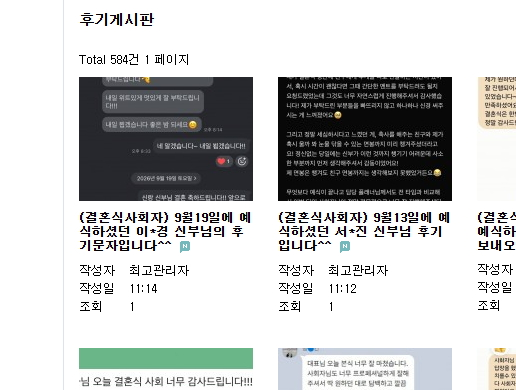
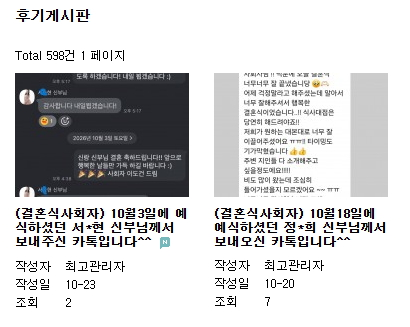
feat: 후기 개수 단일 소스화 + 최신 수치 반영 (숨고890/후기게시판598/스마트스토어550/블로그1,011/고객작성760/카페300 = 4,109건)

diff --git a/client/src/components/sections/ReviewSection.tsx b/client/src/components/sections/ReviewSection.tsx
@@ -6,6 +6,13 @@
 import { useScrollAnimation } from "@/hooks/useScrollAnimation";
 import { ExternalLink, ChevronLeft, ChevronRight, MessageSquare } from "lucide-react";
 import { useState, useEffect, useCallback, useRef } from "react";
+import {
+  PROOF_IMAGES,
+  PROOF_AS_OF,
+  PROOF_TOTAL,
+  PROOF_TOTAL_DISPLAY,
+  PROOF_TOTAL_DISPLAY_KO,
+} from "@/data/reviewStats";
 
 const REVIEW_IMAGES = [
   { src: "/images/review1_d832f6e4.jpg", alt: "고객 후기 1" },
@@ -18,68 +25,6 @@ const REVIEW_IMAGES = [
 ];
 
 const GOLD = "#d4b896";
-
-// 후기 증빙 자료 — 위 3개: 숨고 / 후기게시판 / 스마트스토어
-// 아래 3개: 블로그(문자·카톡 후기 모음, 자사 운영 블로그) / 블로그(고객님이 직접 작성한 후기글) / 카페
-const PROOF_IMAGES = [
-  {
-    src: "/images/proof/proof-soomgo.jpg",
-    alt: "숨고 프로필 리뷰수 829건",
-    label: "출처 · 숨고",
-    source: "숨고",
-    count: 829,
-    url: "https://soomgo.com/profile/users/4719699",
-    linkLabel: "숨고 프로필에서 확인",
-  },
-  {
-    src: "/images/proof/proof-blog.jpg",
-    alt: "홈페이지 후기게시판 Total 584건",
-    label: "출처 · 후기 게시판",
-    source: "후기 게시판",
-    count: 584,
-    url: "http://musicin.godohosting.com/bbs/board.php?bo_table=forum",
-    linkLabel: "후기 게시판에서 확인",
-  },
-  {
-    src: "/images/proof/proof-smartstore.jpg",
-    alt: "네이버 스마트스토어 리뷰 414건",
-    label: "출처 · 스마트스토어",
-    source: "네이버 스마트스토어",
-    count: 414,
-    url: "https://smartstore.naver.com/inus_store/products/5466083565",
-    linkLabel: "스마트스토어에서 확인",
-  },
-  {
-    src: "/images/proof/proof-singer-blog.jpg",
-    alt: "블로그 문자·카톡 후기 모음 984건",
-    label: "출처 · 블로그 (문자·카톡 후기 모음)",
-    source: "블로그(문자·카톡)",
-    count: 984,
-    url: "https://blog.naver.com/PostList.naver?blogId=inusmusics&from=postList&categoryNo=71&parentCategoryNo=71",
-    linkLabel: "블로그 후기글에서 확인",
-  },
-  {
-    src: "/images/proof/proof-blog-personal.jpg",
-    alt: "고객님이 직접 작성한 블로그 후기글 344건",
-    label: "출처 · 블로그 (고객님 작성글)",
-    source: "블로그(고객 작성)",
-    count: 344,
-    url: "https://search.naver.com/search.naver?ssc=tab.blog.all&sm=tab_jum&query=%EC%9D%B4%EB%84%88%EC%8A%A4%EB%AE%A4%EC%A7%81",
-    linkLabel: "네이버 블로그 검색에서 확인",
-  },
-  {
-    src: "/images/proof/proof-cafe.jpg",
-    alt: "네이버 카페 고객 후기글 126건",
-    label: "출처 · 카페",
-    source: "카페",
-    count: 126,
-    url: "https://search.naver.com/search.naver?ssc=tab.cafe.all&sm=tab_jum&query=%EC%9D%B4%EB%84%88%EC%8A%A4%EB%AE%A4%EC%A7%81",
-    linkLabel: "네이버 카페 검색에서 확인",
-  },
-];
-
-const PROOF_TOTAL = PROOF_IMAGES.reduce((sum, p) => sum + p.count, 0);
-const PROOF_AS_OF = "2026.10.01";
 
 // 네이버 블로그 후기 원문 발췌 — 아이디 마스킹, 본문 일부만 노출, 원문 링크 제공
 const BLOG_REVIEWS = [
@@ -220,7 +165,7 @@ export default function ReviewSection() {
                 boxShadow: "0 0 16px rgba(212,184,150,0.25)",
               }}
             >
-              3200+ 후기
+              {PROOF_TOTAL_DISPLAY_KO} 후기
             </span>
           </div>
           <p className="mt-4 text-white/50 text-sm sm:text-base max-w-sm mx-auto leading-relaxed break-keep">
@@ -229,7 +174,7 @@ export default function ReviewSection() {
           <p className="mt-2 text-white/35 text-xs sm:text-sm max-w-sm mx-auto leading-relaxed break-keep">
             숨고·후기게시판·스마트스토어·블로그·카페 등 모든 플랫폼 후기를 합산하면
             <br className="sm:hidden" />
-            {" "}3,200건 이상 (사회자 개별 후기 포함)
+            {" "}{PROOF_TOTAL_DISPLAY_KO} 이상 (사회자 개별 후기 포함)
           </p>
 
           {/* 증빙 자료 — 숨고/후기게시판/스마트스토어 (위) · 블로그(문자후기모음)/블로그(고객작성)/카페 (아래) */}
@@ -342,7 +287,7 @@ export default function ReviewSection() {
               엄격하게 집계했습니다.
             </p>
             <p className="mt-2.5 text-[13px] sm:text-sm text-white/60 break-keep leading-relaxed text-center max-w-[21rem] sm:max-w-md mx-auto">
-              저희가 보여드리는 <span className="font-bold" style={{ color: GOLD }}>3,200+ 건</span>은
+              저희가 보여드리는 <span className="font-bold" style={{ color: GOLD }}>{PROOF_TOTAL_DISPLAY} 건</span>은
               <br className="sm:hidden" />{" "}
               전부 플랫폼에서
               <br className="hidden sm:block" />{" "}

diff --git a/client/src/data/reviewStats.ts b/client/src/data/reviewStats.ts
@@ -1,0 +1,101 @@
+/**
+ * 후기(리뷰) 증빙 데이터 — 단일 소스(Single Source of Truth)
+ *
+ * ⚠ 후기 개수를 수정할 때는 이 파일만 고치면 됩니다.
+ *
+ * 새 캡처(증빙 스크린샷)를 반영할 때 하는 일:
+ *   1. count 값을 새 캡처 숫자로 교체
+ *   2. alt 텍스트의 숫자도 함께 맞춰서 수정 (스크린샷 설명과 숫자가 일치하도록)
+ *   3. 필요하면 src(이미지 경로)도 새 캡처 이미지로 교체
+ *   4. PROOF_AS_OF(기준일)도 캡처 날짜로 갱신
+ * 나머지(합계, 반올림 표시, "4,100+" 류 문구)는 전부 자동 계산됩니다.
+ */
+
+export interface ProofImage {
+  src: string;
+  alt: string;
+  label: string;
+  source: string;
+  count: number;
+  url: string;
+  linkLabel: string;
+}
+
+/* ── 후기 증빙 자료 — 위 3개: 숨고/후기게시판/스마트스토어, 아래 3개: 블로그(문자·카톡 모음)/블로그(고객 작성)/카페 ── */
+export const PROOF_IMAGES: ProofImage[] = [
+  {
+    src: "/images/proof/proof-soomgo.jpg",
+    alt: "숨고 프로필 리뷰수 890건",
+    label: "출처 · 숨고",
+    source: "숨고",
+    count: 890,
+    url: "https://soomgo.com/profile/users/4719699",
+    linkLabel: "숨고 프로필에서 확인",
+  },
+  {
+    src: "/images/proof/proof-blog.jpg",
+    alt: "홈페이지 후기게시판 Total 598건",
+    label: "출처 · 후기 게시판",
+    source: "후기 게시판",
+    count: 598,
+    url: "http://musicin.godohosting.com/bbs/board.php?bo_table=forum",
+    linkLabel: "후기 게시판에서 확인",
+  },
+  {
+    src: "/images/proof/proof-smartstore.jpg",
+    alt: "네이버 스마트스토어 리뷰 550건",
+    label: "출처 · 스마트스토어",
+    source: "네이버 스마트스토어",
+    count: 550,
+    url: "https://smartstore.naver.com/inus_store/products/5466083565",
+    linkLabel: "스마트스토어에서 확인",
+  },
+  {
+    src: "/images/proof/proof-singer-blog.jpg",
+    alt: "블로그 사회자 후기글 1,011건",
+    label: "출처 · 블로그 (문자·카톡 후기 모음)",
+    source: "블로그(문자·카톡)",
+    count: 1011,
+    url: "https://blog.naver.com/PostList.naver?blogId=inusmusics&from=postList&categoryNo=71&parentCategoryNo=71",
+    linkLabel: "블로그 후기글에서 확인",
+  },
+  {
+    src: "/images/proof/proof-blog-personal.jpg",
+    alt: "고객님이 직접 작성한 블로그 후기글 760건",
+    label: "출처 · 블로그 (고객님 작성글)",
+    source: "블로그(고객 작성)",
+    count: 760,
+    url: "https://search.naver.com/search.naver?ssc=tab.blog.all&sm=tab_jum&query=%EC%9D%B4%EB%84%88%EC%8A%A4%EB%AE%A4%EC%A7%81",
+    linkLabel: "네이버 블로그 검색에서 확인",
+  },
+  {
+    src: "/images/proof/proof-cafe.jpg",
+    alt: "네이버 카페 고객 후기글 300건",
+    label: "출처 · 카페",
+    source: "카페",
+    count: 300,
+    url: "https://search.naver.com/search.naver?ssc=tab.cafe.all&sm=tab_jum&query=%EC%9D%B4%EB%84%88%EC%8A%A4%EB%AE%A4%EC%A7%81",
+    linkLabel: "네이버 카페 검색에서 확인",
+  },
+];
+
+/** 기준일 — 캡처/증빙 자료를 갱신한 날짜 */
+export const PROOF_AS_OF = "2026.10.24";
+
+/** 정확한 합계 (예: 4,109) */
+export const PROOF_TOTAL = PROOF_IMAGES.reduce((sum, p) => sum + p.count, 0);
+
+/** 마케팅 문구용 100 단위 내림 합계 (예: 4,109 → 4,100) */
+export const PROOF_TOTAL_ROUNDED = Math.floor(PROOF_TOTAL / 100) * 100;
+
+/** "4,100" 형태 (쉼표 포함, + 없음) */
+export const PROOF_TOTAL_ROUNDED_LABEL = PROOF_TOTAL_ROUNDED.toLocaleString();
+
+/** "4,100+" 형태 */
+export const PROOF_TOTAL_DISPLAY = `${PROOF_TOTAL_ROUNDED_LABEL}+`;
+
+/** "4,100건+" 형태 */
+export const PROOF_TOTAL_DISPLAY_KO = `${PROOF_TOTAL_ROUNDED_LABEL}건+`;
+
+/** 정확한 합계를 "4,109건" 형태로 */
+export const PROOF_TOTAL_EXACT_LABEL = `${PROOF_TOTAL.toLocaleString()}건`;

diff --git a/client/src/pages/Contest.tsx b/client/src/pages/Contest.tsx
@@ -25,6 +25,7 @@ import VoiceKingBanner from "@/components/contest/VoiceKingBanner";
 import ProfileModal from "@/components/contest/ProfileModal";
 import { setSoundMuted, isSoundMuted, playSfx } from "@/components/contest/soundEffects";
 import { buildShareCard } from "@/components/contest/shareCard";
+import { PROOF_TOTAL_DISPLAY_KO } from "@/data/reviewStats";
 
 const MINT = "#5BB5A2";
 const GOLD = "#d4b896";
@@ -607,7 +608,7 @@ export default function Contest() {
                 </span>
                 <span className="w-px h-3 bg-white/15" />
                 <span className="text-[11px] tracking-wide whitespace-nowrap">
-                  후기 <span className="text-[#d4b896] font-medium">3,200건+</span>
+                  후기 <span className="text-[#d4b896] font-medium">{PROOF_TOTAL_DISPLAY_KO}</span>
                 </span>
               </motion.div>
 
@@ -1118,7 +1119,7 @@ export default function Contest() {
                 {/* 항목3: 실제 후기 규모를 채널별로 세분화해 신뢰 신호 제공 */}
                 <p className="flex flex-wrap items-center justify-center gap-1.5 text-[11px] text-white/45 max-w-xs mx-auto text-center break-keep">
                   <Star size={11} className="text-[#d4b896] shrink-0" />
-                  <span>실제 고객 후기 3,200건+</span>
+                  <span>실제 고객 후기 {PROOF_TOTAL_DISPLAY_KO}</span>
                   <span className="text-white/30">(숨고 804·후기게시판 582·블로그 979·스마트스토어 377)</span>
                 </p>
               </div>

diff --git a/client/src/components/sections/IntroSection.tsx b/client/src/components/sections/IntroSection.tsx
@@ -1,6 +1,7 @@
 import { useScrollAnimation } from "@/hooks/useScrollAnimation";
 import { ShieldCheck, ScrollText, Zap, Palette, BookHeart, Gift, Wallet } from "lucide-react";
 import CountUpNumber from "@/components/CountUpNumber";
+import { PROOF_TOTAL_ROUNDED } from "@/data/reviewStats";
 
 const GOLD = "#d4b896";
 
@@ -114,7 +115,7 @@ export default function IntroSection() {
             {
               value: (
                 <>
-                  <CountUpNumber targetNumber={3200} duration={2000} className="text-[#d4b896]" style={{ fontFamily: "'Cormorant Garamond', serif" }} />
+                  <CountUpNumber targetNumber={PROOF_TOTAL_ROUNDED} duration={2000} className="text-[#d4b896]" style={{ fontFamily: "'Cormorant Garamond', serif" }} />
                   <span className="text-base sm:text-xl text-white/40 ml-0.5">+</span>
                 </>
               ),

diff --git a/client/src/components/sections/HeroSection.tsx b/client/src/components/sections/HeroSection.tsx
@@ -1,6 +1,7 @@
 import { useEffect, useState } from "react";
 import { ArrowRight, Star } from "lucide-react";
 import { VENUE_NAMES } from "@/data/venues";
+import { PROOF_TOTAL_ROUNDED_LABEL } from "@/data/reviewStats";
 
 const HERO_BG = "/images/hero-v2-option2.webp";
 const HERO_BG_MOBILE = "/images/hero-mobile-v3.webp";
@@ -113,7 +114,7 @@ export default function HeroSection() {
                   letterSpacing: "0.01em",
                 }}
               >
-                3,200
+                {PROOF_TOTAL_ROUNDED_LABEL}
               </span>
               <span
                 className="text-[15px] sm:text-lg"
